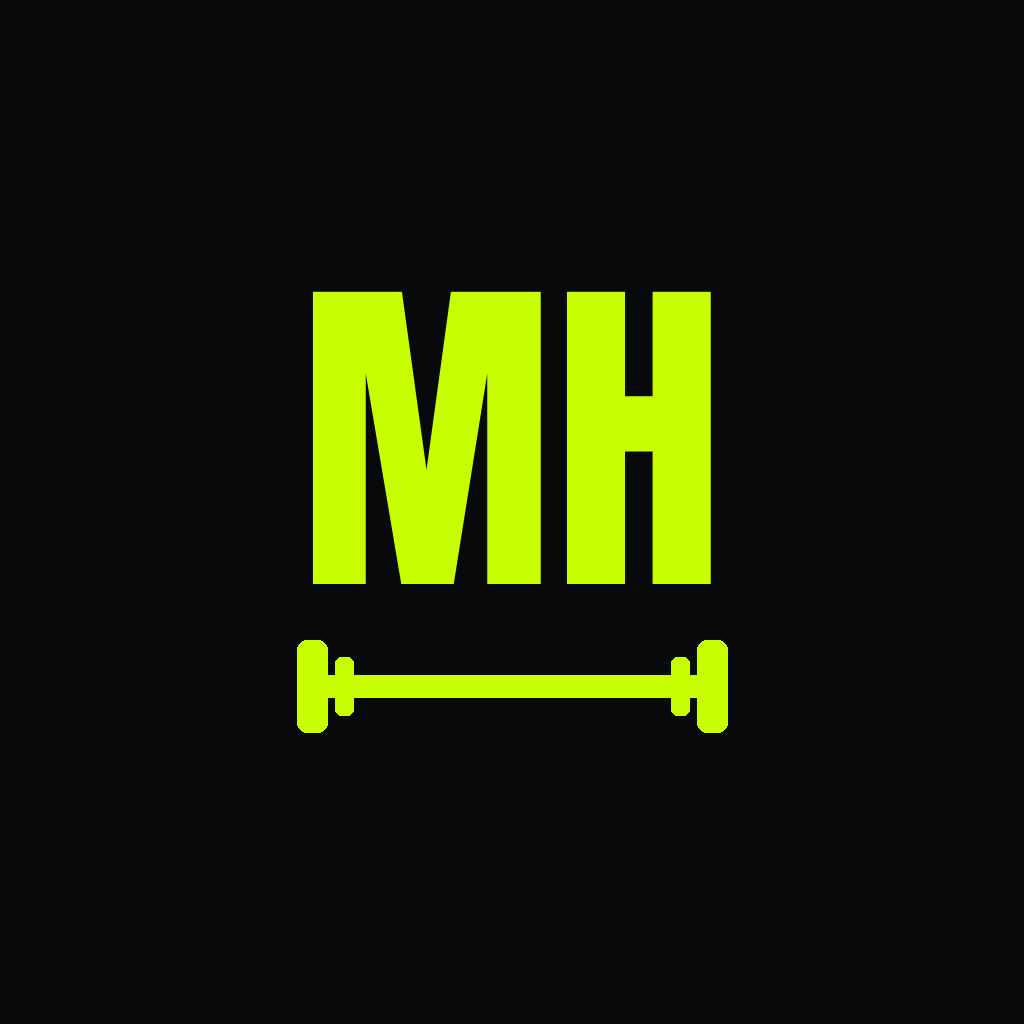
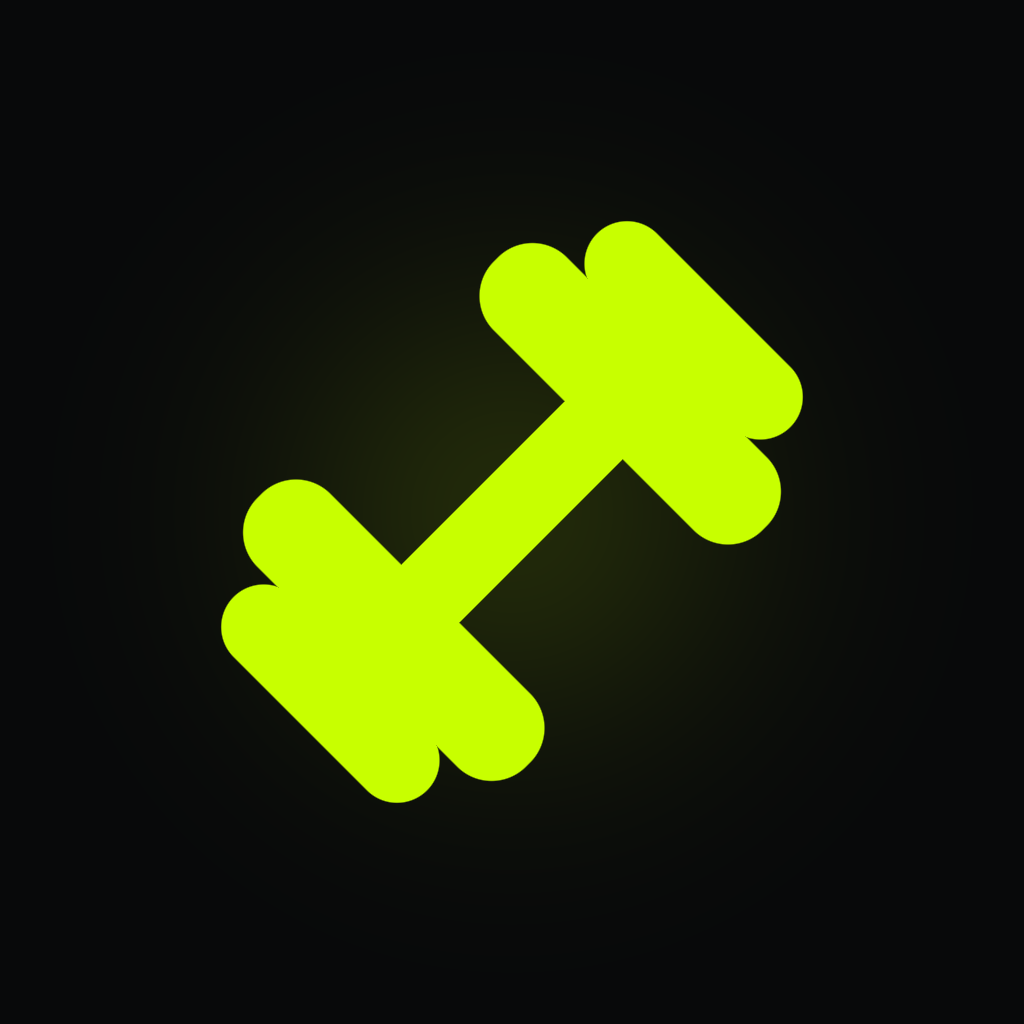
feat: rebranding completo a EliteFit (app + web)
- Marca nueva: EliteFit, símbolo de mancuerna lima 45° sobre negro
- App: nombre visible "EliteFit" (slug y bundleId intactos), íconos regenerados
  (icon, splash, notificación, adaptive Android, favicon) por render SDF,
  login con wordmark ELITE/FIT y tagline
- Web: componente Logo (mancuerna + ELITEFIT), favicon SVG, metadatos y
  OpenGraph EliteFit, Marcelo Herrera pasa a "coach fundador" en FAQ y footer

Changed region(s): [[0.2188, 0.2188, 0.7812, 0.7812]]

diff --git a/web/src/app/page.tsx b/web/src/app/page.tsx
@@ -1,4 +1,5 @@
 import Link from 'next/link';
+import Logo from '@/components/Logo';
 
 export default function LandingPage() {
   return (
@@ -6,8 +7,7 @@ export default function LandingPage() {
       <nav className="nav">
         <div className="container nav-inner">
           <a href="#" className="brand">
-            <span className="brand-dot" />
-            Marcelo Herrera
+            <Logo />
           </a>
           <div className="nav-links">
             <a href="#como-funciona">Cómo funciona</a>
@@ -204,7 +204,7 @@ export default function LandingPage() {
               <summary>¿Cómo consigo acceso a la app?</summary>
               <p>
                 El acceso es por invitación de tu coach. Escríbenos con el botón de abajo y te
-                conectamos con Marcelo para comenzar tu plan.
+                conectamos con Marcelo Herrera, coach fundador de EliteFit, para comenzar tu plan.
               </p>
             </details>
             <details>
@@ -251,8 +251,7 @@ export default function LandingPage() {
           <div className="footer-grid">
             <div>
               <div className="brand">
-                <span className="brand-dot" />
-                Marcelo Herrera
+                <Logo />
               </div>
               <p className="tagline">
                 Entrenamiento personalizado con seguimiento real. Cada serie cuenta.
@@ -272,10 +271,11 @@ export default function LandingPage() {
             <div className="footer-col">
               <h4>Contacto</h4>
               <a href="mailto:hizocar@gmail.com">hizocar@gmail.com</a>
+              <span className="muted" style={{ fontSize: 13 }}>Coach fundador: Marcelo Herrera</span>
             </div>
           </div>
           <div className="footer-bottom">
-            <span>© {new Date().getFullYear()} Marcelo Herrera · Entrenamiento personalizado</span>
+            <span>© {new Date().getFullYear()} EliteFit · Entrenamiento personalizado</span>
             <span>Hecho con 🏋 en Chile</span>
           </div>
         </div>

diff --git a/web/src/app/layout.tsx b/web/src/app/layout.tsx
@@ -7,20 +7,20 @@ const inter = Inter({ subsets: ['latin'], variable: '--font-body' });
 
 export const metadata: Metadata = {
   title: {
-    default: 'Marcelo Herrera · Entrenamiento personalizado',
-    template: '%s · Marcelo Herrera',
+    default: 'EliteFit · Entrenamiento personalizado',
+    template: '%s · EliteFit',
   },
   description:
     'Entrena con un plan diseñado por tu coach, registra cada serie y mira tu progreso semana a semana. App de entrenamiento personalizado con seguimiento real.',
-  applicationName: 'Marcelo Herrera Trainer',
+  applicationName: 'EliteFit',
   keywords: ['entrenamiento personalizado', 'coach', 'gimnasio', 'progreso', 'plan de entrenamiento', 'fitness'],
   openGraph: {
-    title: 'Marcelo Herrera · Entrenamiento personalizado',
+    title: 'EliteFit · Entrenamiento personalizado',
     description:
       'Tu plan. Tu progreso. En serio. Registra cada serie y entrena con un plan hecho para ti por tu coach.',
     type: 'website',
     locale: 'es_CL',
-    siteName: 'Marcelo Herrera Trainer',
+    siteName: 'EliteFit',
   },
 };
 

diff --git a/web/src/components/Logo.tsx b/web/src/components/Logo.tsx
@@ -1,0 +1,25 @@
+export function Dumbbell({ size = 24 }: { size?: number }) {
+  return (
+    <svg width={size} height={size} viewBox="0 0 64 64" aria-hidden="true">
+      <g fill="#C8FF00" transform="rotate(45 32 32)">
+        <rect x="14" y="29.4" width="36" height="5.2" rx="2.6" />
+        <rect x="17.8" y="19.8" width="6.6" height="24.4" rx="3.3" />
+        <rect x="39.6" y="19.8" width="6.6" height="24.4" rx="3.3" />
+        <rect x="12.4" y="23.3" width="5.4" height="17.4" rx="2.7" />
+        <rect x="46.2" y="23.3" width="5.4" height="17.4" rx="2.7" />
+      </g>
+    </svg>
+  );
+}
+
+/** Wordmark EliteFit: mancuerna + ELITE blanco / FIT lima. Usar dentro de .brand */
+export default function Logo({ size = 24 }: { size?: number }) {
+  return (
+    <>
+      <Dumbbell size={size} />
+      <span>
+        ELITE<span className="accent">FIT</span>
+      </span>
+    </>
+  );
+}

diff --git a/web/src/app/clients/[id]/page.tsx b/web/src/app/clients/[id]/page.tsx
@@ -3,6 +3,7 @@ import Link from 'next/link';
 import { createClient } from '@/lib/supabase-server';
 import type { AppUser, PlanDay } from '@/lib/types';
 import PlanEditor from './PlanEditor';
+import Logo from '@/components/Logo';
 
 export const dynamic = 'force-dynamic';
 
@@ -61,8 +62,7 @@ export default async function ClientPlanPage({ params }: { params: Promise<{ id:
       <header className="app-header">
         <div className="container inner">
           <Link href="/dashboard" className="brand">
-            <span className="brand-dot" />
-            Marcelo Herrera
+            <Logo />
           </Link>
           <Link href="/dashboard" className="btn btn-ghost" style={{ padding: '10px 18px' }}>
             ← CLIENTES

diff --git a/web/src/app/dashboard/page.tsx b/web/src/app/dashboard/page.tsx
@@ -2,6 +2,7 @@ import Link from 'next/link';
 import { redirect } from 'next/navigation';
 import { createClient } from '@/lib/supabase-server';
 import { signOut } from '../actions';
+import Logo from '@/components/Logo';
 import type { AppUser } from '@/lib/types';
 
 export const dynamic = 'force-dynamic';
@@ -33,8 +34,7 @@ export default async function DashboardPage() {
       <header className="app-header">
         <div className="container inner">
           <div className="brand">
-            <span className="brand-dot" />
-            Marcelo Herrera
+            <Logo />
           </div>
           <form action={signOut}>
             <button className="btn btn-ghost" style={{ padding: '10px 18px' }}>SALIR</button>

diff --git a/web/src/app/login/page.tsx b/web/src/app/login/page.tsx
@@ -4,6 +4,7 @@ import { useState } from 'react';
 import { useRouter } from 'next/navigation';
 import Link from 'next/link';
 import { createClient } from '@/lib/supabase-browser';
+import Logo from '@/components/Logo';
 
 export default function LoginPage() {
   const router = useRouter();
@@ -51,8 +52,7 @@ export default function LoginPage() {
     <div className="auth-wrap">
       <div className="auth-card">
         <div className="brand" style={{ marginBottom: 20 }}>
-          <span className="brand-dot" />
-          Marcelo Herrera
+          <Logo />
         </div>
         <h1>Panel de coach</h1>
         <p className="muted" style={{ fontSize: 14 }}>Gestiona los planes de tus clientes.</p>

diff --git a/trainer-app/src/screens/auth/LoginScreen.tsx b/trainer-app/src/screens/auth/LoginScreen.tsx
@@ -81,9 +81,9 @@ export default function LoginScreen() {
             <View style={styles.brandBar} />
             <Text style={styles.brandKicker}>ENTRENAMIENTO PERSONALIZADO</Text>
           </View>
-          <Text style={styles.logo}>MARCELO</Text>
-          <Text style={styles.logoAccent}>HERRERA</Text>
-          <Text style={styles.subtitle}>COACH · THERAPIST</Text>
+          <Text style={styles.logo}>ELITE</Text>
+          <Text style={styles.logoAccent}>FIT</Text>
+          <Text style={styles.subtitle}>TU PLAN · TU PROGRESO · EN SERIO</Text>
         </View>
 
         <View style={styles.form}>
